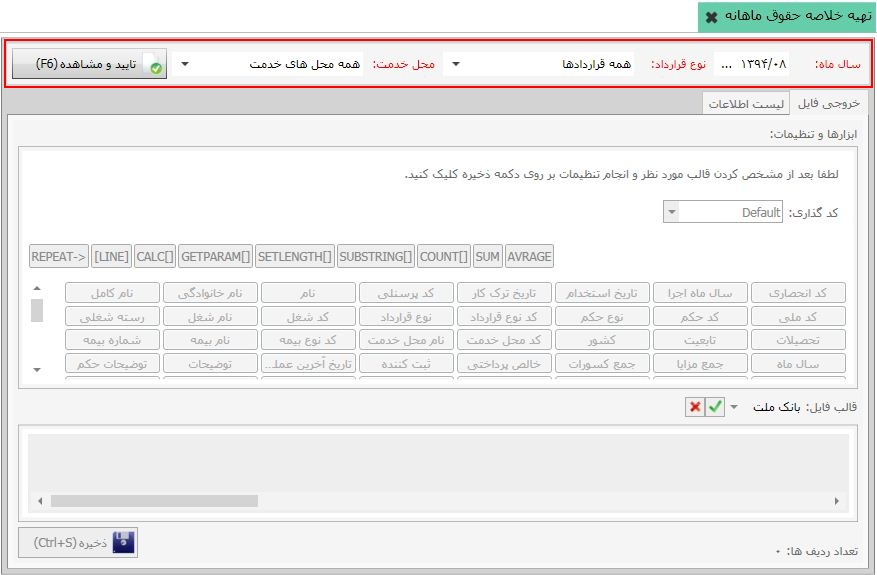
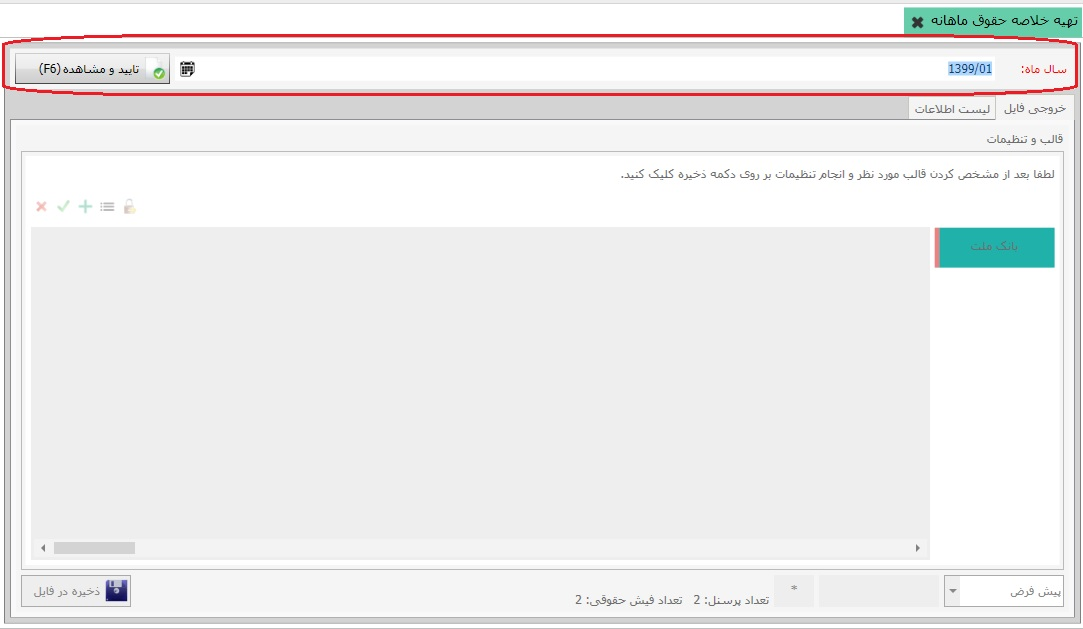
تهیه ی خلاصه ی حقوق و دستمزد

Changed region(s): [[0.0, 0.0, 1.0, 1.0], [0.0924, 0.3252, 0.1231, 0.3548]]

diff --git a/Help/fa-IR/_11_حقوق و دستمزد/_20_تهیه خلاصه حقوق ماهانه/Index.html b/Help/fa-IR/_11_حقوق و دستمزد/_20_تهیه خلاصه حقوق ماهانه/Index.html
@@ -13,7 +13,7 @@
 	</div>
 	<p>
 		با کلیک روی منوی « تهیه ی خلاصه ی حقوق ماهانه»
-		 از بخش « مرور و گزارشات» می توانید صفحه مربوط به
+		از بخش « مرور و گزارشات» می توانید صفحه مربوط به
 		آن را مشاهده کنید. در این منو می توانید گزارشات کاملی
 		از جمله گزارشات بانک،
 		لیست های حقوق و .... را در دو فرمت TXT و Excel بگیرید. پس از کلیک بر
@@ -21,8 +21,8 @@
 	</p>
 	<img class="FitPic" src="l1.jpg" />
 	<p>
-		پس از مشخص کردن سال ماه ، نوع قرارداد و محل خدمت بر
-		روی دکمه تایید و مشاهده کلیک کنید تا صفحه فعال شود.
+		پس از مشخص کردن سال ماه روی دکمه تایید
+		و مشاهده کلیک کنید تا صفحه فعال شود.
 	</p>
 	<p>
 		این منو دارای دو سربرگ« خروجی فایل» و « لیست اطلاعات»
@@ -30,31 +30,33 @@
 	</p>
 	<h2>خروجی فایل</h2>
 	<p>
+		برای سهولت در پرداخت حقوق پرسنل شرکتها، بانکها فرمت های
+		پیش فرضی را تهیه کرده اند که با استفاده از این فرمتها
+		شرکتها می توانند به سرعت خلاصه ای از لیست پرداخت حقوق را
+		ارایه کنند و بانکها پس از دریافت این لیست
+		آنها را به حساب پرسنل شرکت مورد نظر واریز نمایند.
+	</p>
+	<p>
+		به تصویر زیر دقت کنید:
+	</p>
+	<img class="FitPic" src="l5.jpg" />
+	<p>
+		در کادر شماره ی یک پنج گزینه وجود دارد که به ترتیب از چپ به راست،
+		حذف قالب، ذخیره ی قالب، قالب جدید، پنل پارامترها و قفل، نام دارند.
+		با استفاده از گزینه ی قالب جدید یک قالب تازه ایجاد کنید.
+	</p>
+	<p>
 		در سربرگ خروجی فایل، می توانید پارامترهایی که در فایل خروجی نیاز
 		دارید را مشخص کنید شکل زیر این سربرگ را نمایش می دهد:
 	</p>
 	<img class="FitPic" src="l2.jpg" />
 	<p>
-		این سربرگ به بخش های مختلفی
-		تقسیم شده است که در پایین به توضیح هر کدام میپردازیم :
-	</p>
-	<p>
-		1- در این قسمت شما سال ماه ، نوع قراداد
-		و محل خدمتی که می خواهید از آن گزارش بگیرید را
-		تعیین می کنید پس از وارد کردن این اطلاعات و کلیک بر
-		روی کلید تایید و مشاهده صفحه خروجی فایل فعال می شود.
-	</p>
-	<p>
-		2- در این قسمت شما باید نوع کدگذاری فایلی خروجی را مشخص کنید.
-	</p>
-	<img class="SmallPic" src="s1.jpg" />
-	<p>
-		3- در این قسمت توابعی که برای نوشتن فرمول مربوط به فایل خروجی قرار
+		در این قسمت توابعی که برای نوشتن فرمول مربوط به فایل خروجی قرار
 		دارد با استفاده از این توابع می توان ردیف های فایل
 		خروجی را مشخص کرد در ادامه به توضیح هر کدام می پردازیم :
 	</p>
 	<p>
-		REPEAT-> : این تابع برای تکرار ردیف ها مود استفاده قرار می گیرید
+		REPEAT-> : این تابع برای تکرار ردیف ها مورد استفاده قرار می گیرد
 		مثلا در خروجی بانک یعد مشخص کردن ردیف اول
 		از ردیف دوم به بعد برای نمایش اطلاعات پرسنل در
 		ردیف های جداگانه و پشت سرهم از این ئابع استفاده
@@ -115,17 +117,6 @@
 		AVRAGE : از این تابع برای محاسبه میانگین استفاده می شود.
 	</p>
 	<p>
-		4- در قسمت چهارم تمامی پارامتر های قرارداد و تمامی پارامتر های پایه و پرسنلی
-		قرار دارد که می توانید از آن ها در خروجی فایل استفاده کنید.
-	</p>
-	<p>
-		5- در این قسمت شما می توانید نام فایل خروجی را وارد کنید و با کلیک بر روی دکمه
-		<img class="PicInText" src="pit1.png" />
-		قالب مربوط به این فایل را ذخیره کنید همچنین با استفاده از دکمه
-		<img class="PicInText" src="pit2.png" />
-		می توانید قالب ذخیره شده را حذف نمائید.
-	</p>
-	<p>
 		پس از مشخص کردن پارامترهای خروجی فایل و نوشتن فرمول بر روی دکمه
 		<img class="PicInText" src="pit3.jpg" />
 		ذخیره کلیک کنید تا منوی زیر باز شود :
@@ -135,15 +126,6 @@
 		پس از وارد کردن عنوان و فرمت فایل خروجی
 		و تعیین مسیر می توانید از فایل خروجی مورد نظر استفاده کنید.
 	</p>
-	<hr />
-	<h2>لیست اطلاعات</h2>
-	<p>
-		پس از وارد کردن سال ماه و نوع قرارداد و محل های خدمت و کلیک بر روی دکمه
-		تایید و مشاهده می توانید لیست پرسنلی که می خواهید در سربرگ
-		خروجی فایل از آن ها گزارش تهیه کنید را مشخص نمائید. شکل زیر
-		این صفحه را پس از کلیک بر روی دکمه تایید و مشاهده نمایش می دهد.
-	</p>
-	<img class="FitPic" src="l3.jpg" />
 
 
 

diff --git a/Help/fa-IR/_11_حقوق و دستمزد/_23_صفحه تنظیمات حقوق/Index.html b/Help/fa-IR/_11_حقوق و دستمزد/_23_صفحه تنظیمات حقوق/Index.html
@@ -10,7 +10,11 @@
 			<h1> صفحه تنظیمات حقوق </h1>
 		</div>
 		<p>
-			بخش تنظیمات تنها دارای یک منو با عنوان « صفحه تنظیمات حقوق» می باشد که قرارداد پیش فرض در آن قرار دارد. با استفاده از دکمه خواندن از فایل قرارداد پیش فرض نرم افزار را خواندن از فایل کنید. در شکل زیر این صفحه نمایش داده شده است.
+			بخش تنظیمات تنها دارای یک منو با عنوان « صفحه تنظیمات حقوق»
+			 می باشد که قرارداد پیش فرض در آن قرار دارد.
+			 با استفاده از دکمه خواندن از فایل قرارداد
+			 پیش فرض نرم افزار را خواندن از فایل کنید. 
+			در شکل زیر این صفحه نمایش داده شده است.
 		</p>
 		<img class="FitPic" src="l1.jpg"/>
 	
